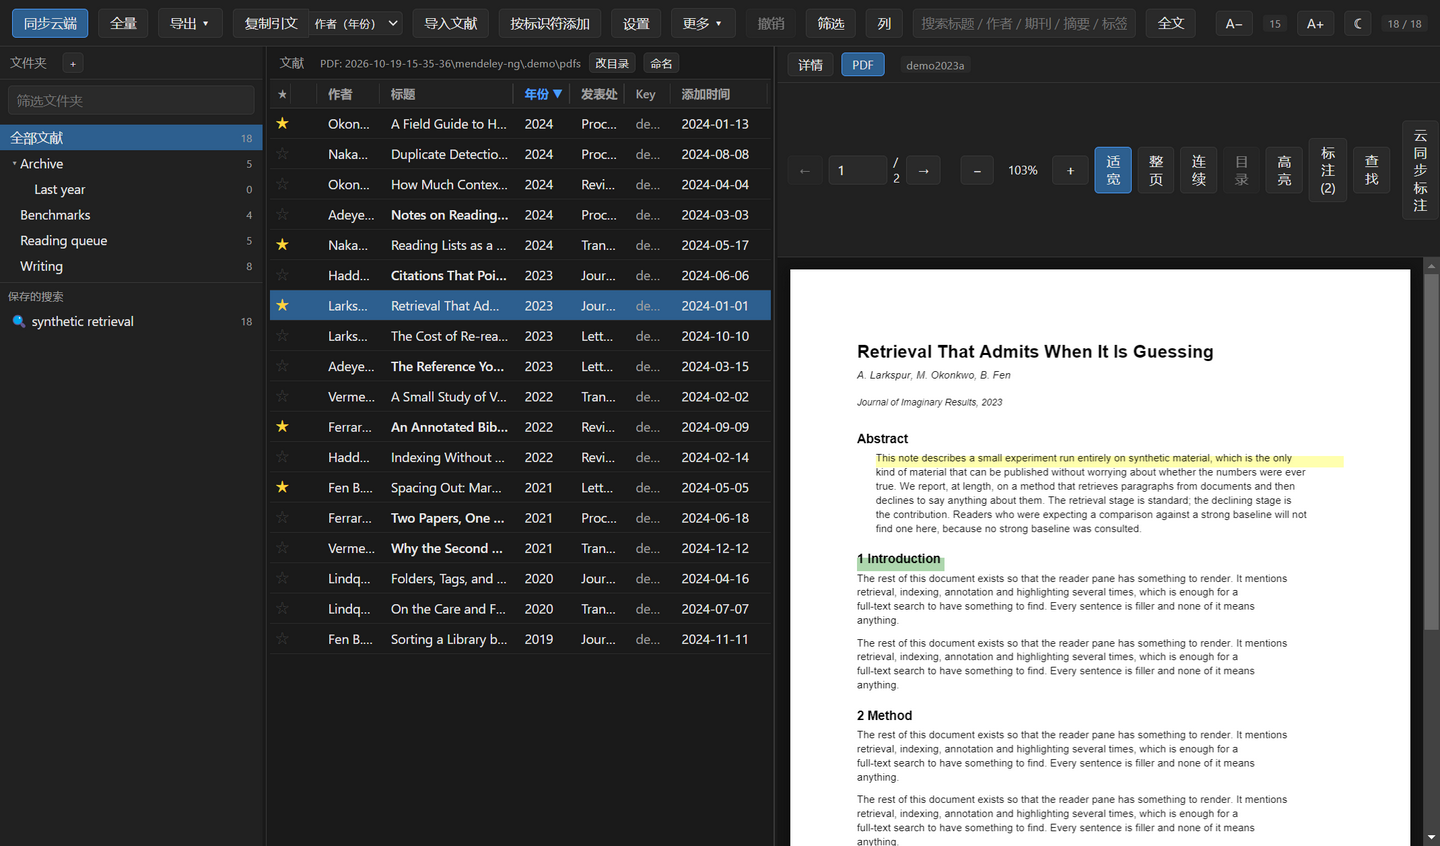
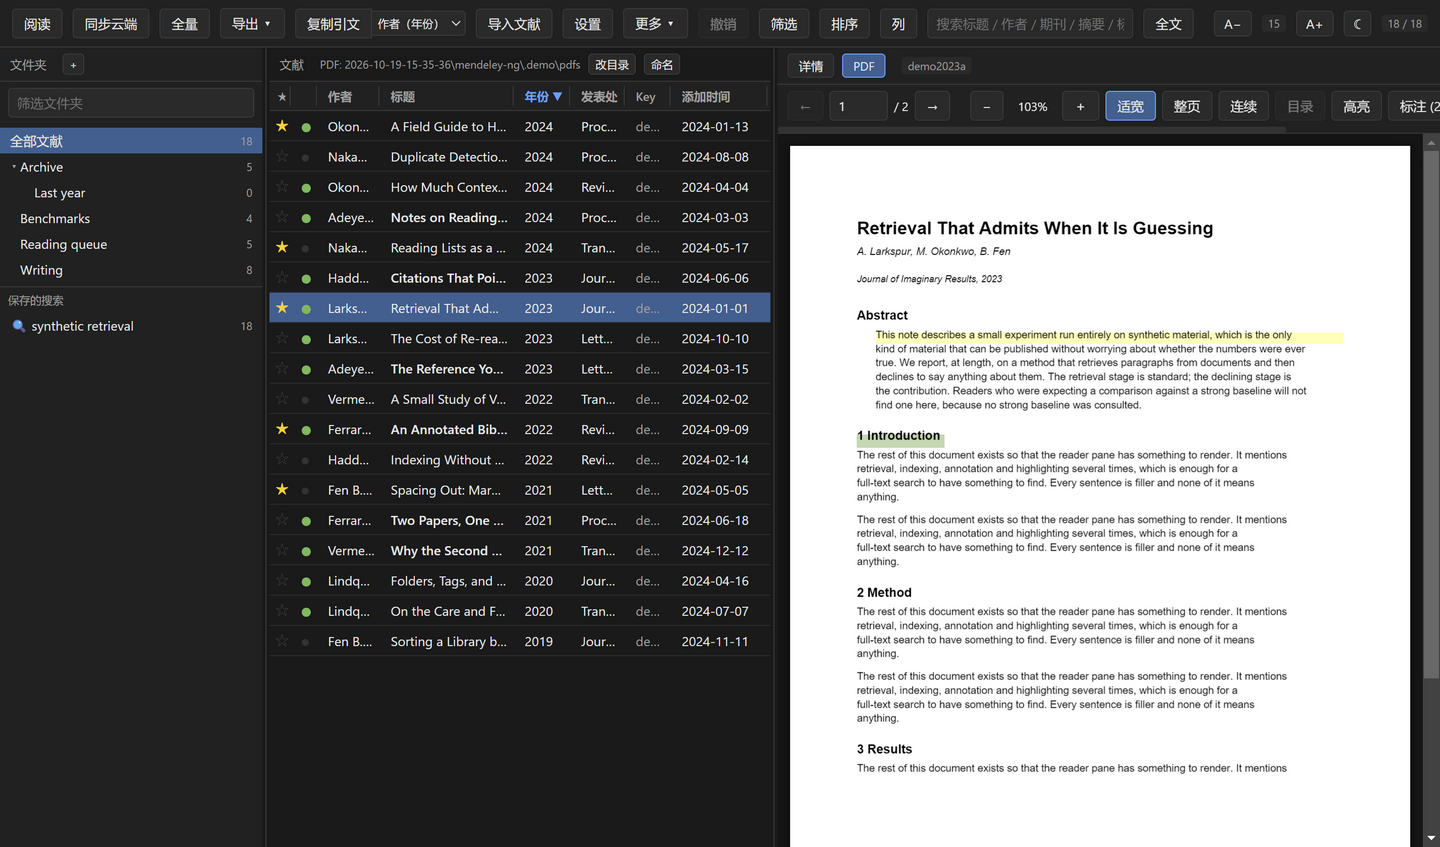
Retake the README screenshots against the current interface
Four releases of changes have landed on the bar and the list since these were
taken: reading is a button at the front, the PDF column finally draws its mark
and now tells local from cloud-only, the search box has a way out, and the menu
can send the reader to the project.

The run also reports what the detail fields hold. An input's value is not in
its textContent, so every check that reads this pane -- the smoke run included
-- passes just as well on a pane full of empty fields; these pictures are the
only check there is, and a run that says what the fields contain is worth more
than one that merely looks plausible.

Changed region(s): [[0.0, 0.0, 1.0, 0.7683], [0.5938, 0.3688, 0.9375, 1.0], [0.9688, 0.7376, 1.0, 0.7991]]

diff --git a/electron/main/demo.ts b/electron/main/demo.ts
@@ -72,6 +72,16 @@ export async function runDemo() {
   // rather than on the reader: that is the half of the app the list hides.
   await pick('A Small Study of Very Large Tables')
   await wait(600)
+  // An input's value is not in its textContent, so nothing that reads this pane
+  // — the smoke run included — would notice a pane full of empty fields.  These
+  // pictures are the only check there is, so the run says what the fields hold.
+  log(
+    'detail fields',
+    await run(
+      'JSON.stringify([...document.querySelectorAll(".pane-right input")]'
+      + '.map(i=>i.value).slice(0,4))'
+    )
+  )
   await shot('01-library-dark')
 
   // The first paper, by name rather than by position: the order of the list
